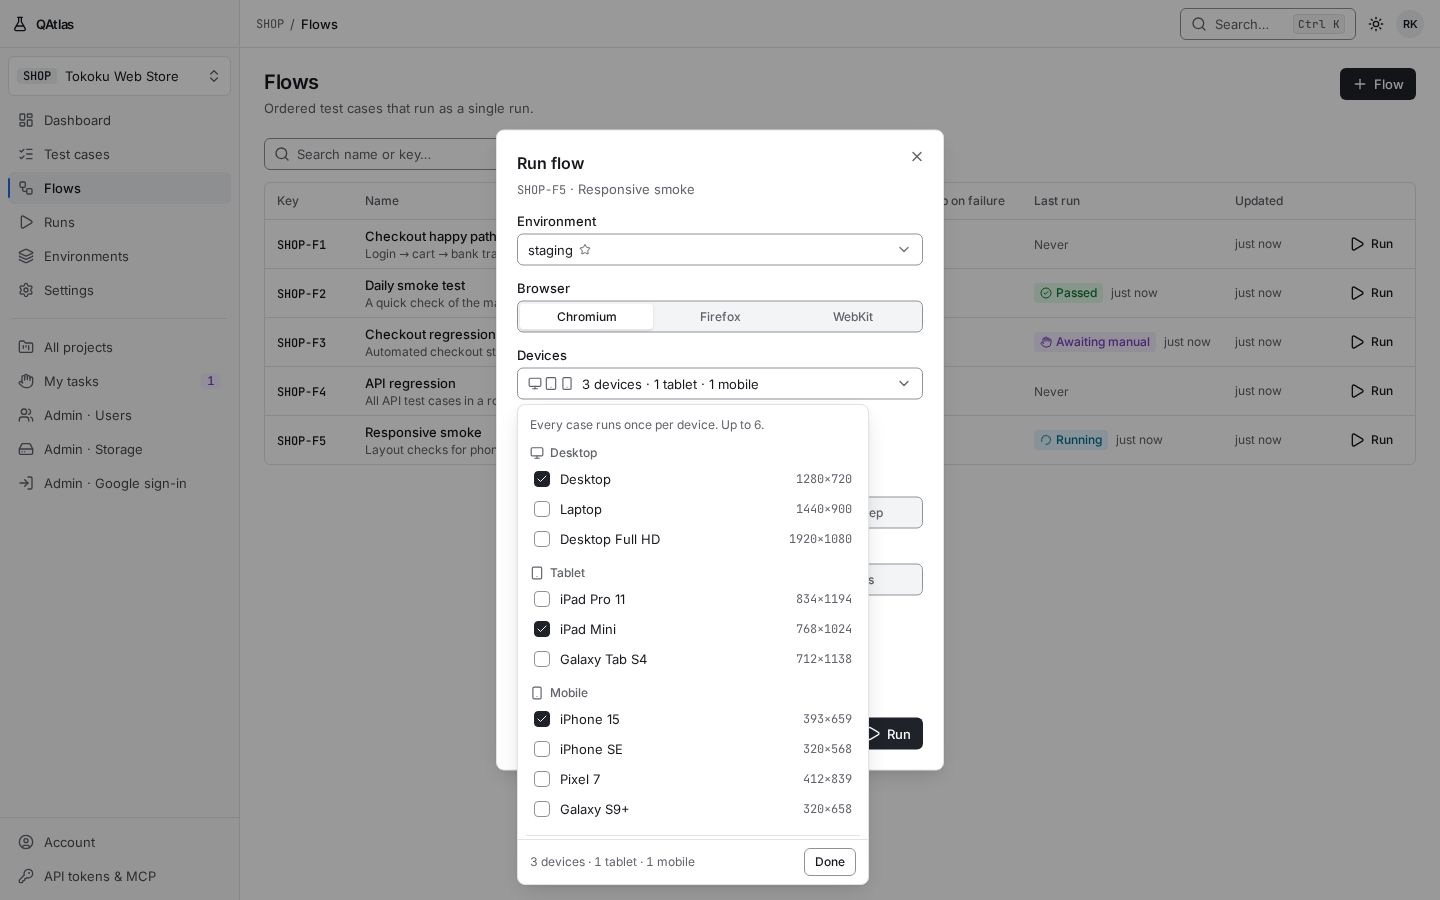
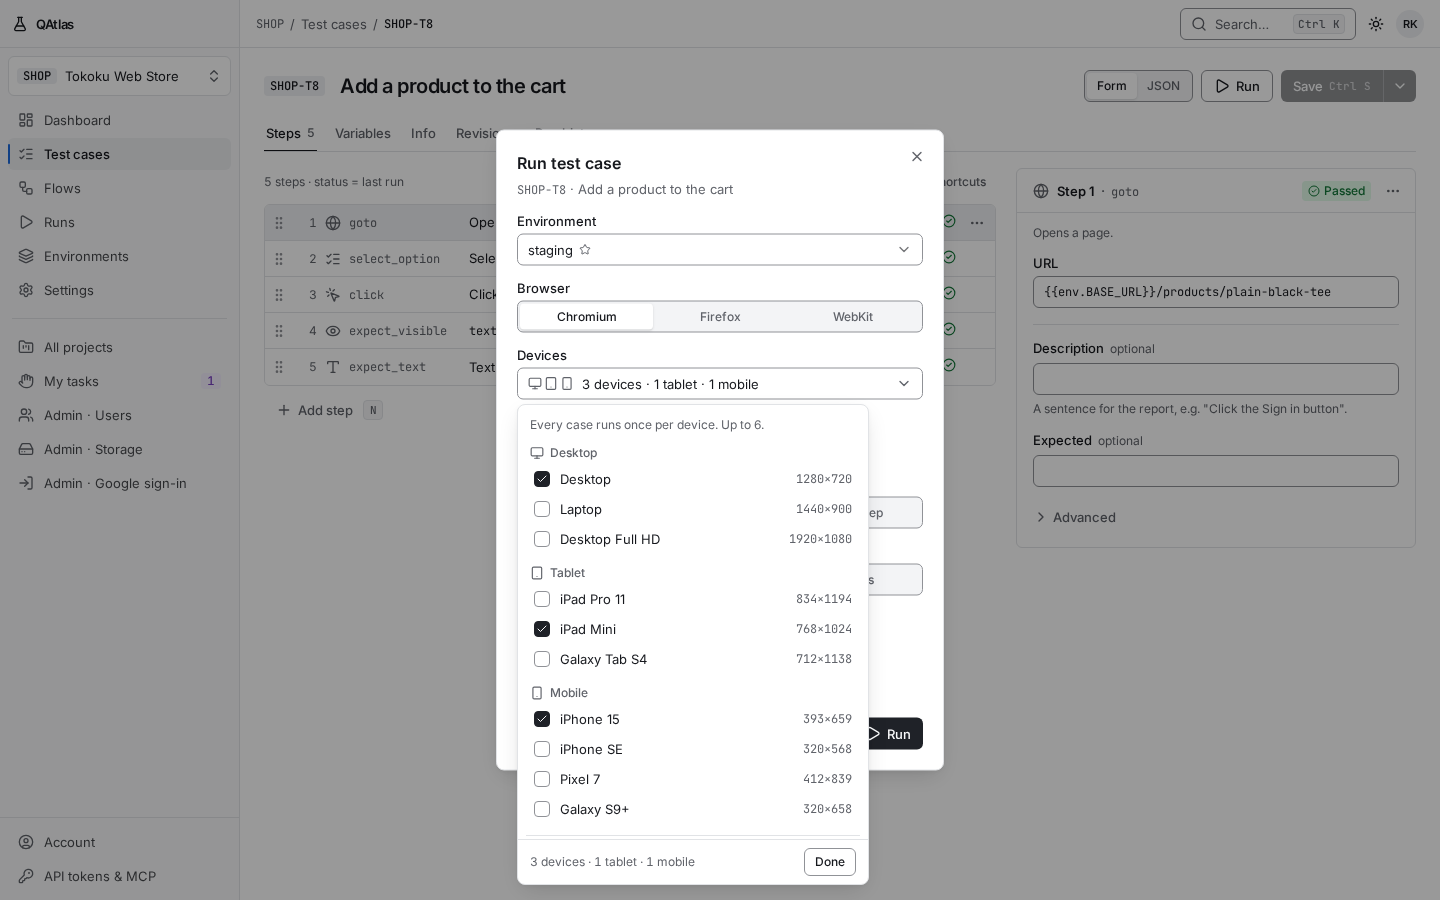
chore: remove responsive sample data from the demo seed
- Mock + backend demo seed: drop SHOP-T28..T30 (folder Responsive), flow SHOP-F5
  "Responsive smoke", the seeded 3-device matrix run, and the seed --runs entry;
  demo.json and the seed test are back to their pre-responsive content. Mock
  STATE_VERSION 9 so stored mock data is re-seeded.
- e2e J15 and the manual screenshot script build their own example: an
  expect_no_horizontal_scroll step (only_on tablet + mobile) added to SHOP-T8,
  run on Desktop, iPad Mini and iPhone 15. Screenshots regenerated.
- The responsive feature itself and demo-target's responsive layout / size-chart
  overflow are unchanged.

diff --git a/web/src/mocks/seed.ts b/web/src/mocks/seed.ts
@@ -417,43 +417,6 @@ const SHOP_API_CASES: TcSeed[] = [
     ] },
 ]
 
-/**
- * Responsive testing examples (docs/14-responsive-testing.md, demo-target "Responsive layout").
- * Appended after SHOP_API_CASES (keys SHOP-T28…T30, flow SHOP-F5) so every existing key and step id
- * stays unchanged. Run them on several devices: SHOP-T29 fails on phones on purpose (size chart
- * overflow), everything else passes on desktop, tablet and phone.
- */
-const SHOP_RESPONSIVE_CASES: TcSeed[] = [
-  { folder: 'Responsive', title: 'Header navigation adapts to the screen', priority: 'high', tags: ['responsive', 'smoke'],
-    description: 'Phones get a "Menu" button that reveals the links; tablets and desktops show the links directly. Steps marked "Only on" run on matching devices only.',
-    steps: [
-      S('goto', { url: '{{env.BASE_URL}}/', description: 'Open the home page' }),
-      S('expect_hidden', { selector: "role=link[name='Categories']", only_on: ['mobile'], description: 'Links are collapsed on a phone' }),
-      S('click', { selector: "role=button[name='Menu']", only_on: ['mobile'], description: 'Open the hamburger menu' }),
-      S('expect_hidden', { selector: "role=button[name='Menu']", only_on: ['tablet', 'desktop'], description: 'No hamburger on larger screens' }),
-      S('click', { selector: "role=link[name='Categories']", description: 'Go to the categories page' }),
-      S('expect_url', { value: '/categories', match: 'contains' }),
-      S('expect_no_horizontal_scroll', { description: 'The page fits the screen width', expected: 'No sideways scrolling' }),
-    ] },
-  { folder: 'Responsive', title: 'Product page fits the screen (no sideways scroll)', priority: 'medium', tags: ['responsive', 'known-bug'],
-    description: 'Known bug: the size chart table has a fixed width, so the product page scrolls sideways on phones. Passes on tablets and desktops.',
-    steps: [
-      S('goto', { url: '{{env.BASE_URL}}/products/plain-black-tee' }),
-      S('expect_visible', { selector: 'testid=size-chart', description: 'The size chart is shown' }),
-      S('expect_no_horizontal_scroll', { description: 'Nothing sticks out to the right', expected: 'Content width ≤ screen width' }),
-    ] },
-  { folder: 'Responsive', title: 'Cart fits narrow and wide screens', priority: 'low', tags: ['responsive'],
-    description: 'Resizes the viewport mid-test with set_viewport: the cart must fit a 320 px wide screen and a 1280 px one, whatever device the run uses.',
-    steps: [
-      S('goto', { url: '{{env.BASE_URL}}/cart' }),
-      S('set_viewport', { width: 320, height: 640, description: 'Smallest supported phone width' }),
-      S('expect_no_horizontal_scroll'),
-      S('expect_visible', { selector: "role=link[name='Continue to checkout']" }),
-      S('set_viewport', { width: 1280, height: 800, description: 'Back to a desktop size' }),
-      S('expect_no_horizontal_scroll'),
-    ] },
-]
-
 /* ------------------------------------------------------------------ builder */
 
 export function buildSeed(): MockState {
@@ -544,7 +507,7 @@ export function buildSeed(): MockState {
       })
     })
   }
-  makeCases(projects[0], [...SHOP_CASES, ...SHOP_AUTH_EMAIL_CASES, ...SHOP_API_CASES, ...SHOP_RESPONSIVE_CASES], ['u_rina', 'u_dimas'])
+  makeCases(projects[0], [...SHOP_CASES, ...SHOP_AUTH_EMAIL_CASES, ...SHOP_API_CASES], ['u_rina', 'u_dimas'])
   makeCases(projects[1], PAY_CASES, ['u_dimas', 'u_sari'])
 
   const revisions = testCases.flatMap((t) =>
@@ -581,12 +544,8 @@ export function buildSeed(): MockState {
     { id: 'fl_shop_4', project_id: 'p_shop', key: 'SHOP-F4', name: 'API regression', description: 'All API test cases in a row, each in its own session (no shared cookies or variables); a failure does not stop the rest.',
       tags: ['api', 'regression'], shared_session: false, stop_on_failure: false, variables: {},
       items: ['SHOP-T23', 'SHOP-T24', 'SHOP-T25', 'SHOP-T26', 'SHOP-T27', 'SHOP-T15', 'SHOP-T16'].map((k) => flowItem(k)), revision: 1, created_at: iso(4 * DAY), updated_at: iso(4 * DAY), deleted_at: null },
-    // Appended after SHOP-F4: the responsive examples, run on several devices (docs/14).
-    { id: 'fl_shop_5', project_id: 'p_shop', key: 'SHOP-F5', name: 'Responsive smoke', description: 'Layout checks for phone, tablet and desktop. Run it on several devices (e.g. Desktop, iPad Mini, iPhone 15); the product page fails on phones on purpose.',
-      tags: ['responsive', 'smoke'], shared_session: false, stop_on_failure: false, variables: {},
-      items: ['SHOP-T28', 'SHOP-T29', 'SHOP-T30'].map((k) => flowItem(k)), revision: 1, created_at: iso(1 * DAY), updated_at: iso(1 * DAY), deleted_at: null },
   ]
-  projects[0].seq.flow = 5
+  projects[0].seq.flow = 4
   projects[1].seq.flow = 1
 
   return {
@@ -626,10 +585,6 @@ export interface HistorySpec {
   infraError?: string
   manual?: { by: string; results: ('passed' | 'failed' | 'blocked' | 'skipped')[]; notes?: string[] } | 'leave-open'
   assignee?: string
-  /** Preset device ids (api/devices.json) for a multi-device run; default = the project's devices. */
-  devices?: string[]
-  /** Forces one step of one case on one device to fail (seeded demo data, not a simulator rule). */
-  failStep?: { device: number; caseKey: string; stepIndex: number; error: string }
 }
 
 /** Spesifikasi riwayat run (dieksekusi oleh history.ts memakai simulator). */
@@ -662,12 +617,5 @@ export function historySpecs(): HistorySpec[] {
   specs.push({ projectKey: 'SHOP', kind: 'flow', target: 'SHOP-F3', daysAgo: 0.08, user: 'u_rina', manual: 'leave-open', assignee: 'u_rina' })
   specs.push({ projectKey: 'SHOP', kind: 'test_case', target: 'SHOP-T4', daysAgo: 0.2, user: 'u_rina', manual: 'leave-open', assignee: 'u_dimas' })
   specs.push({ projectKey: 'PAY', kind: 'test_case', target: 'PAY-T4', daysAgo: 1.1, user: 'u_dimas', manual: 'leave-open', assignee: 'u_rina' })
-  // Multi-device (matrix) example, docs/14. Newest spec on purpose: it sorts last, so the keys and rng seeds
-  // of every older run stay the same. On the iPhone the "Add to cart" button sits below a too-wide size
-  // chart; with stop on failure only the iPhone's remaining case is skipped, the other devices carry on.
-  specs.push({ projectKey: 'SHOP', kind: 'flow', target: 'SHOP-F1', daysAgo: 0.04, user: 'u_dimas',
-    devices: ['desktop', 'ipad-mini', 'iphone-15'], options: { screenshot: 'on_failure', video: 'on_failure' },
-    failStep: { device: 2, caseKey: 'SHOP-T8', stepIndex: 2,
-      error: "locator.click: Timeout 10000ms exceeded.\nCall log:\n  - waiting for getByRole('button', { name: 'Add to cart' })\n  - element is outside of the viewport" } })
   return specs.sort((a, b) => b.daysAgo - a.daysAgo)
 }

diff --git a/web/e2e/responsive.spec.ts b/web/e2e/responsive.spec.ts
@@ -2,17 +2,18 @@ import { expect, test } from '@playwright/test'
 import { fastSimulation, isReal, login, RUN_TIMEOUT } from './helpers'
 
 /**
- * J15 responsive testing (docs/14): a step limited with "Only on", a flow run on three devices from the
- * Run dialog, the Matrix view, and the overflow offenders of a failed mobile cell.
+ * J15 responsive testing (docs/14): a step limited with "Only on", a test case run on three devices from the
+ * Run dialog, the Matrix view, and the overflow offenders of the failed phone cell. It builds its own example
+ * from SHOP-T8 (product page → cart); the demo seed has no responsive test cases.
  */
-test('J15: "Only on" in the editor; Responsive smoke on 3 devices → matrix → failed phone cell shows the overflow', async ({ page }) => {
+test('J15: "Only on" in the editor; SHOP-T8 on 3 devices → matrix → failed phone cell shows the overflow', async ({ page }) => {
   // Runs in both modes: mock (simulated layout, mocks/simulator.ts WIDE_PAGES) and real (runner + demo-target,
   // whose product page size chart is 650px wide on purpose — demo-target/README.md "Intentional responsive bug").
   test.setTimeout(isReal ? 240_000 : 120_000)
   await login(page)
   if (!isReal) await fastSimulation(page)
 
-  // 1. Editor: add "No horizontal scroll" to SHOP-T8, only on tablet + mobile
+  // 1. Editor: add "No horizontal scroll" to SHOP-T8 (product page), only on tablet + mobile
   await page.goto('/p/SHOP/tests/SHOP-T8')
   await page.getByRole('button', { name: 'Add step' }).click()
   await page.getByRole('combobox', { name: 'Search actions' }).fill('horizontal')
@@ -27,9 +28,8 @@ test('J15: "Only on" in the editor; Responsive smoke on 3 devices → matrix →
   await page.keyboard.press('Control+s')
   await expect(page.getByText(/Revision \d+ saved/).first()).toBeVisible()
 
-  // 2. Run dialog: SHOP-F5 Responsive smoke on Desktop + iPad Mini + iPhone 15
-  await page.goto('/p/SHOP/flows')
-  await page.getByRole('button', { name: 'Run SHOP-F5 Responsive smoke' }).click()
+  // 2. Run dialog: SHOP-T8 on Desktop + iPad Mini + iPhone 15
+  await page.getByRole('button', { name: /^Run$/ }).click()
   const dialog = page.getByRole('dialog')
   const devices = dialog.getByRole('button', { name: /^Devices / })
   await expect(devices).toHaveAccessibleName('Devices Desktop · 1280×720')
@@ -42,22 +42,17 @@ test('J15: "Only on" in the editor; Responsive smoke on 3 devices → matrix →
   await dialog.getByRole('button', { name: 'Run', exact: true }).click()
   await expect(page).toHaveURL(/\/p\/SHOP\/runs\/SHOP-R\d+/)
 
-  // 3. Matrix: rows = cases, columns = devices; only the product page on the phone fails
+  // 3. Matrix: one row, one column per device; only the phone fails (the size chart is wider than 393px)
   await expect(page.getByRole('tab', { name: 'Matrix' })).toHaveAttribute('aria-selected', 'true')
   const matrix = page.getByRole('table', { name: 'Results per test case and device' })
   await expect(matrix.getByRole('columnheader')).toHaveText([/Test case/, /Desktop\s*1280×720/, /iPad Mini\s*768×1024/, /iPhone 15\s*393×659/])
-  const cell = (key: string, device: string, status: string) => matrix.getByRole('button', { name: new RegExp(`^${key} .* on ${device}: ${status}\\. Show steps$`) })
-  const failedCell = cell('SHOP-T29', 'iPhone 15 · 393×659', 'Failed')
+  const cell = (device: string, status: string) => matrix.getByRole('button', { name: new RegExp(`^SHOP-T8 .* on ${device}: ${status}\\. Show steps$`) })
+  const failedCell = cell('iPhone 15 · 393×659', 'Failed')
   await expect(failedCell).toBeVisible({ timeout: RUN_TIMEOUT })
-  // stop_on_failure is off for this flow: the phone's next case still runs and passes (hamburger menu + set_viewport)
-  await expect(cell('SHOP-T30', 'iPhone 15 · 393×659', 'Passed')).toBeVisible({ timeout: RUN_TIMEOUT })
-  for (const device of ['Desktop · 1280×720', 'iPad Mini · 768×1024', 'iPhone 15 · 393×659']) {
-    await expect(cell('SHOP-T28', device, 'Passed')).toBeVisible()
-  }
-  await expect(cell('SHOP-T29', 'iPad Mini · 768×1024', 'Passed')).toBeVisible()
-  await expect(cell('SHOP-T29', 'Desktop · 1280×720', 'Passed')).toBeVisible()
+  await expect(cell('iPad Mini · 768×1024', 'Passed')).toBeVisible({ timeout: RUN_TIMEOUT })
+  await expect(cell('Desktop · 1280×720', 'Passed')).toBeVisible({ timeout: RUN_TIMEOUT })
 
-  // 4. Failed phone cell → that case on the iPhone, with the overflowing table
+  // 4. Failed phone cell → the case on the iPhone, with the overflowing table
   await failedCell.click()
   await expect(page.getByRole('tab', { name: 'Steps' })).toHaveAttribute('aria-selected', 'true')
   const iphone = page.getByRole('region', { name: /^Cases on iPhone 15 · 393×659/ })
@@ -65,8 +60,8 @@ test('J15: "Only on" in the editor; Responsive smoke on 3 devices → matrix →
   await expect(iphone.getByText('content width 650px', { exact: true })).toBeVisible()
   await expect(iphone.getByText('table', { exact: true }).first()).toBeVisible()
 
-  // 5. Desktop: the phone-only hamburger steps are skipped as "Not run on desktop" (not disabled)
+  // 5. Desktop: the tablet/mobile-only step is skipped as "Not run on desktop" (not disabled)
   await page.getByRole('tab', { name: 'Matrix' }).click()
-  await cell('SHOP-T28', 'Desktop · 1280×720', 'Passed').click()
+  await cell('Desktop · 1280×720', 'Passed').click()
   await expect(page.getByRole('region', { name: /^Cases on Desktop · 1280×720/ }).getByText('Not run on desktop').first()).toBeVisible()
 })

diff --git a/web/src/mocks/devices.test.ts b/web/src/mocks/devices.test.ts
@@ -131,26 +131,16 @@ describe('seed', () => {
     }
   })
 
-  it('has one matrix run of SHOP-F1 on desktop, iPad Mini and iPhone 15 where the iPhone fails', () => {
-    const multi = db().runs.filter((r) => r.options.devices.length > 1).map(toRun)
-    expect(multi).toHaveLength(1)
-    const run = multi[0]
-    expect(run.target.key).toBe('SHOP-F1')
-    expect(run.options.devices.map((d) => d.id)).toEqual(['desktop', 'ipad-mini', 'iphone-15'])
-    expect(run.status).toBe('failed')
-    expect(run.cases.map((c) => `${c.device_index}:${c.test_case_key}:${c.status}`)).toEqual([
-      '0:SHOP-T1:passed', '0:SHOP-T8:passed', '0:SHOP-T11:passed',
-      '1:SHOP-T1:passed', '1:SHOP-T8:passed', '1:SHOP-T11:passed',
-      '2:SHOP-T1:passed', '2:SHOP-T8:failed', '2:SHOP-T11:skipped',
-    ])
-    // newest run → highest key, so the keys of all older seeded runs stay the same
-    const shopRuns = db().runs.filter((r) => r.project_id === 'p_shop').map((r) => Number(r.key.split('-R')[1]))
-    expect(Number(run.key.split('-R')[1])).toBe(Math.max(...shopRuns))
+  it('has no multi-device sample runs (responsive sample data removed)', () => {
+    expect(db().runs.filter((r) => r.options.devices.length > 1)).toEqual([])
+    expect(db().flows.map((f) => f.key)).not.toContain('SHOP-F5')
+    expect(db().folders.map((f) => f.name)).not.toContain('Responsive')
   })
 
   it('JUnit of a multi-device run names test cases "{title} [{device}]"', () => {
-    const run = toRun(db().runs.find((r) => r.options.devices.length > 1)!)
-    const xml = runToJUnit(run)
+    const run = runOf('flow', 'SHOP-F1', devices('desktop', 'ipad-mini', 'iphone-15'))
+    fastForward(run, Date.now())
+    const xml = runToJUnit(toRun(run))
     expect(xml).toContain('name="SHOP-T8 Add a product to the cart [iPhone 15]"')
     expect(xml).toContain('name="SHOP-T8 Add a product to the cart [Desktop]"')
     expect(xml).not.toContain('[#')

diff --git a/web/src/mocks/history.ts b/web/src/mocks/history.ts
@@ -1,4 +1,3 @@
-import { presetDevice } from '@/lib/device-catalog'
 import { DEFAULT_RUN_OPTIONS, buildSeed, historySpecs } from './seed'
 import { registerSeed, setState, type MockState } from './db'
 import { advance, completeManualCase, createRun, fastForward, rngFor } from './simulator'
@@ -21,7 +20,7 @@ export function populateHistory(state: MockState) {
       kind: spec.kind,
       targetId: target.id,
       env,
-      options: { ...DEFAULT_RUN_OPTIONS, ...spec.options, ...(spec.devices ? { devices: spec.devices.map((id) => presetDevice(id)!) } : {}) },
+      options: { ...DEFAULT_RUN_OPTIONS, ...spec.options },
       userId: spec.user,
       trigger: spec.trigger ?? 'manual',
       assigneeId: spec.assignee,
@@ -29,11 +28,6 @@ export function populateHistory(state: MockState) {
       queuedAt: new Date(queuedMs).toISOString(),
     })
     state.runs.push(run)
-    if (spec.failStep) {
-      const f = spec.failStep
-      const step = run.cases.find((c) => c.device_index === f.device && c.test_case_key === f.caseKey)?.steps[f.stepIndex]
-      if (step) step.sim = { outcome: 'failed', error: f.error, duration_ms: 10_000 }
-    }
     let t = queuedMs + 1500
     if (spec.infraError) {
       advance(run, t)

diff --git a/web/src/mocks/db.ts b/web/src/mocks/db.ts
@@ -288,8 +288,8 @@ export interface MockState {
   googleAuth?: DbGoogleAuth
 }
 
-/** Naikkan saat bentuk/isi seed berubah → data lama di localStorage di-seed ulang. v4: seed demo berbahasa Inggris. v6: contoh API testing (SHOP-T23…T27, SHOP-F4, PAY baru). v7: devices / device_index / only_on (docs/14). */
-export const STATE_VERSION = 8
+/** Naikkan saat bentuk/isi seed berubah → data lama di localStorage di-seed ulang. v4: seed demo berbahasa Inggris. v6: contoh API testing (SHOP-T23…T27, SHOP-F4, PAY baru). v7: devices / device_index / only_on (docs/14). v9: contoh responsive (SHOP-T28…T30, SHOP-F5, run matrix) dihapus. */
+export const STATE_VERSION = 9
 const STORAGE_KEY = 'qatlas.mock.db'
 
 /* ------------------------------------------------------------------ persistence */

diff --git a/backend/internal/seed/seed.go b/backend/internal/seed/seed.go
@@ -735,17 +735,14 @@ func (s *seeder) seedFlows(ctx context.Context, fp fixtureProject, caseIDs map[s
 
 // demoRuns are enqueued by --runs (only for projects created in this call):
 // a passing smoke flow, the voucher case that fails on demo-target's
-// intentional bug, the mixed flow that stops at its manual case (assigned to
-// the seeding admin), and the responsive flow on three devices (the product
-// page fails on the phone on purpose, docs/14-responsive-testing.md).
+// intentional bug, and the mixed flow that stops at its manual case
+// (assigned to the seeding admin).
 var demoRuns = []struct {
 	project, testCase, flow string
-	options                 string // RunCreate.options JSON; empty = project defaults
 }{
 	{project: "SHOP", flow: "SHOP-F2"},
 	{project: "SHOP", testCase: "SHOP-T12"},
 	{project: "SHOP", flow: "SHOP-F3"},
-	{project: "SHOP", flow: "SHOP-F5", options: `{"devices":[{"id":"desktop"},{"id":"ipad-mini"},{"id":"iphone-15"}]}`},
 }
 
 func (s *seeder) enqueueRuns(ctx context.Context) error {
@@ -753,11 +750,7 @@ func (s *seeder) enqueueRuns(ctx context.Context) error {
 		if !slices.Contains(s.created, r.project) {
 			continue
 		}
-		in := runs.CreateInput{TestCase: r.testCase, Flow: r.flow}
-		if r.options != "" {
-			in.Options = json.RawMessage(r.options)
-		}
-		run, err := s.runs.Create(ctx, s.actor, r.project, in)
+		run, err := s.runs.Create(ctx, s.actor, r.project, runs.CreateInput{TestCase: r.testCase, Flow: r.flow})
 		if err != nil {
 			return fmt.Errorf("enqueue run of %s%s: %w", r.testCase, r.flow, describe(err))
 		}

diff --git a/backend/internal/seed/seed_test.go b/backend/internal/seed/seed_test.go
@@ -103,7 +103,7 @@ func TestDemoSeed(t *testing.T) {
 	if got := strings.Join(queryStrings(t, pool, `
 		SELECT f.name || '<' || COALESCE(pf.name, '') FROM folders f JOIN projects p ON p.id = f.project_id
 		LEFT JOIN folders pf ON pf.id = f.parent_id WHERE p.key = 'SHOP' ORDER BY f.name`), ","); got !=
-		"API<,Auth<,Cart<,Catalog<,Checkout<,Email<,Payment<Checkout,Responsive<" {
+		"API<,Auth<,Cart<,Catalog<,Checkout<,Email<,Payment<Checkout" {
 		t.Fatalf("folders: %s", got)
 	}
 
@@ -174,7 +174,7 @@ func TestDemoSeed(t *testing.T) {
 	if err := Demo(ctx, pool, cfg, nil, Options{Reset: true, Out: &out}); err != nil {
 		t.Fatalf("reset: %v\n%s", err, out.String())
 	}
-	if got := countAll(); got != "4/2/34/0" {
+	if got := countAll(); got != "4/2/31/0" {
 		t.Fatalf("after reset: %s", got)
 	}
 	if !strings.Contains(out.String(), "project SHOP deleted (--reset)") || !strings.Contains(out.String(), "project SHOP created") {

diff --git a/docs/10-roadmap.md b/docs/10-roadmap.md
@@ -42,7 +42,7 @@ Urutan sengaja **frontend dulu**: Phase 1 membangun seluruh user journey di FE d
 - [x] Demo: alur daftar + verifikasi email (Mailpit v1.33.0) dan login TOTP di toko demo; SHOP-T20–T22 lolos dengan runner asli
 - [x] Frontend: code-splitting (login 524 → 215 KB gzip, dashboard 253 KB) + gzip aset statis di server Go
 - [x] Pengaturan storage dari UI (DB terenkripsi, ganti tanpa restart, migrasi dari UI)
-- [x] Responsive testing ([14](14-responsive-testing.md)): katalog device dengan emulasi Playwright (touch, DPR, isMobile, UA), run multi-device dengan laporan matrix, step `set_viewport` / `expect_no_horizontal_scroll` / `only_on`, demo SHOP-F5 di toko demo (bug overflow disengaja di HP)
+- [x] Responsive testing ([14](14-responsive-testing.md)): katalog device dengan emulasi Playwright (touch, DPR, isMobile, UA), run multi-device dengan laporan matrix, step `set_viewport` / `expect_no_horizontal_scroll` / `only_on`, toko demo punya bug overflow disengaja di HP (tanpa data contoh di seed)
 
 ```mermaid
 flowchart LR

diff --git a/docs/manual/README.id.md b/docs/manual/README.id.md
@@ -600,9 +600,10 @@ satu kolom per device. Klik sel untuk membuka case itu di device tersebut pada t
 
 ![Cek overflow yang gagal beserta elemen penyebabnya](img/run-overflow-offenders.png)
 
-**Demo:** flow **SHOP-F5 Responsive smoke** (SHOP-T28…T30) dijalankan di Desktop, iPad Mini, dan
-iPhone 15. Halaman produk sengaja gagal di HP: tabel ukuran di toko demo terlalu lebar untuk layar
-393 px.
+**Coba di toko demo:** data demo tidak berisi test case responsive, jadi tambahkan step
+`expect_no_horizontal_scroll` (Only on: tablet + mobile) ke **SHOP-T8** lalu jalankan di Desktop,
+iPad Mini, dan iPhone 15. Halaman produk sengaja gagal di HP: tabel ukuran di toko demo terlalu lebar
+untuk layar 393 px.
 
 MCP dan API menerima device yang sama: `options.devices` berisi id preset (`desktop`, `ipad-mini`,
 `iphone-15`, …) atau `{ "id": "custom", "width": 390, "height": 844 }` (MCP: `"custom:390x844"`).

diff --git a/docs/manual/README.md b/docs/manual/README.md
@@ -593,9 +593,10 @@ case, one column per device. Select a cell to open that case on that device in t
 
 ![Failed overflow check with the offending elements](img/run-overflow-offenders.png)
 
-**Demo:** the flow **SHOP-F5 Responsive smoke** (SHOP-T28…T30) runs on Desktop, iPad Mini and
-iPhone 15. The product page fails on the phone on purpose: the demo shop's size chart is too wide
-for a 393 px screen.
+**Try it on the demo shop:** the demo data has no responsive test cases, so add an
+`expect_no_horizontal_scroll` step (Only on: tablet + mobile) to **SHOP-T8** and run it on Desktop,
+iPad Mini and iPhone 15. The product page fails on the phone on purpose: the demo shop's size chart
+is too wide for a 393 px screen.
 
 MCP and the API take the same devices: `options.devices` with preset ids (`desktop`, `ipad-mini`,
 `iphone-15`, …) or `{ "id": "custom", "width": 390, "height": 844 }` (MCP:

diff --git a/docs/14-responsive-testing.md b/docs/14-responsive-testing.md
@@ -88,4 +88,4 @@ Ukuran/DPR diambil dari descriptor Playwright 1.64.1. **User agent tidak disimpa
 
 ## Demo
 
-`demo-target` (Tokoku) mendapat layout responsif (menu hamburger di < 768 px) dan satu halaman dengan bug overflow yang disengaja di layar sempit; seed menambah test case responsive + flow `Responsive smoke` (desktop, iPad Mini, iPhone 15) dan satu contoh run matrix.
+`demo-target` (Tokoku) mendapat layout responsif (menu hamburger di < 768 px) dan satu halaman dengan bug overflow yang disengaja di layar sempit (tabel ukuran di halaman produk). Seed demo **tidak** berisi test case, flow, atau run contoh responsive (dihapus 2026-11-09 atas permintaan Kalfian); e2e J15 dan skrip screenshot manual membuat contohnya sendiri dengan menambah step `expect_no_horizontal_scroll` (only_on tablet + mobile) ke SHOP-T8.
